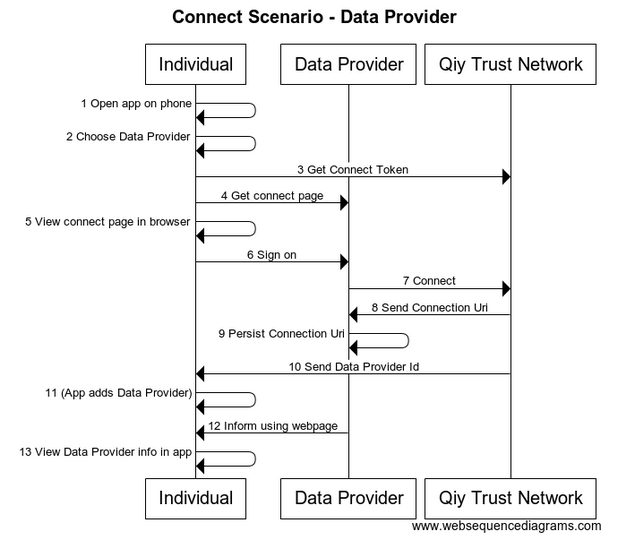
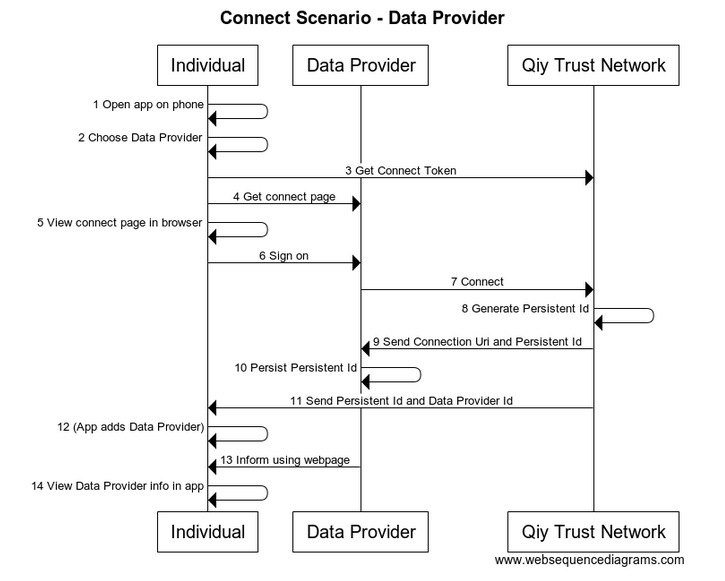
Introduced Persistent Id (#15)

Changed region(s): [[0.0304, 0.0, 0.9744, 1.0]]

diff --git a/Functional Specification.md b/Functional Specification.md
@@ -211,12 +211,13 @@ This chapter describes the flow for the [Individual](Definitions.ms#individual) 
 5. The [Individual](Definitions.md#individual) views the connect page asking him to sign on.
 6. The [Individual](Definitions.md#individual) has an account with the [Data Provider](Definitions.md#data-provider) and succesfully signs on.
 7. The [Data Provider](Definitions.md#data-provider) asks the [Qiy Trust Network](Definitions.md#qiy-trust-network) to create a Connection|Definitions.md#] with the [Connect Token](Definitions.md#connect-token).
-8. The [Qiy Trust Network](Definitions.md#qiy-trust-network) creates the [Connection](Definitions.md#connection) and sends the [Connection Uri](Definitions.md#connection-uri) to the [Data Provider](Definitions.md#data-provider).
-9. The [Data Provider](Definitions.md#data-provider) persists the [Connection Uri](Definitions.md#connection-uri) in the local profile of the [Individual](Definitions.md#individual).
-10. The [Qiy Trust Network](Definitions.md#qiy-trust-network) sends the [Data Provider Id](Definitions.md#data-provider-id) to the [Qiy Application](Definitions.md#qiy-application) of the [Individual](Definitions.md#individual).
-11. The [Qiy Application](Definitions.md#qiy-application) adds the [Data Provider](Definitions.md#data-provider) to the list of connected [Data Providers](Definitions.md#data-provider).
-12. The [Data Provider](Definitions.md#data-provider) uses the webpage to inform the [Individual](Definitions.md#individual) that they are connected via Qiy and that he can control his [Personal Data](Definitions.md#personal-data) via Qiy and redirects him back to the [Qiy Application](Definitions.md#qiy-application).
-13. The [Individual](Definitions.md#individual) can view details of the newly added [Data Provider](Definitions.md#data-provider) in the app.
+8. The [Qiy Trust Network](Definitions.md#qiy-trust-network) creates the [Connection](Definitions.md#connection) and generates a [Persistent Id](Definitions.md#persistent-id) for the [Connection](Definitions.md#connection).
+9. The [Qiy Trust Network](Definitions.md#qiy-trust-network) sends the [Connection Uri](Definitions.md#connection-uri) and the [Persistent Id](Definitions.md#persistent-id) to the [Data Provider](Definitions.md#data-provider).
+10. The [Data Provider](Definitions.md#data-provider) persists the [Persistent Id](Definitions.md#persistent-id) in the local profile of the [Individual](Definitions.md#individual).
+11. The [Qiy Trust Network](Definitions.md#qiy-trust-network) sends the [Persistent Id](Definitions.md#persistent-id) and the [Data Provider Id](Definitions.md#data-provider-id) to the [Individual](Definitions.md#individual) which is captured by his [Qiy Application](Definitions.md#qiy-application).
+12. The [Qiy Application](Definitions.md#qiy-application) adds the [Data Provider](Definitions.md#data-provider) to the list of connected [Data Providers](Definitions.md#data-provider).
+13. The [Data Provider](Definitions.md#data-provider) uses the webpage to inform the [Individual](Definitions.md#individual) that they are connected via Qiy and that he can control his [Personal Data](Definitions.md#personal-data) via Qiy and redirects him back to the [Qiy Application](Definitions.md#qiy-application).
+14. The [Individual](Definitions.md#individual) can view details of the newly added [Data Provider](Definitions.md#data-provider) in the app.
 
 
 # 7 Connect with Relying Party
@@ -226,18 +227,20 @@ This chapter describes the flow for the [Individual](Definitions.ms#individual) 
 ![Connect Scenario - Relying Party](./images/Connect_Scenario_-_Relying_Party_-_Functional_Specification.png)
 
 1. The [Individual](Definitions.md#individual) gets his laptop and opens a webbrowser.
-1. The [Individual](Definitions.md#individual) visits the website of the [Relying Party](Definitions.md#relying-party). It presents an option to sign on using Qiy.
-1. The [Individual](Definitions.md#individual) chooses to use this option.
-1. The [Relying Party](Definitions.md#relying-party) retreives a [Connect Token](Definitions.md#connect-token) from the [Qiy Trust Network](Definitions.md#qiy-trust-network).
-1. The [Relying Party](Definitions.md#relying-party) uses it to generate a [QR Code](Definitions.md#qr-code) in a sign on page.
-1. The [Relying Party](Definitions.md#relying-party) sends the sig on page to the [Individual](Definitions.md#individual).
-1. The [Individual](Definitions.md#individual) picks up his smartphone, opens the previously installed [Qiy Application](Definitions.md#qiy-application) and scans the [QR Code](Definitions.md#qr-code).
-1. The [Qiy Application](Definitions.md#qiy-application) extracts the [Connect Token](Definitions.md#connect-token) and uses it to request the [Qiy Trust Network](Definitions.md#qiy-trust-network) to create a [Connection](Definitions.md#connection). 
-1. The [Qiy Trust Network](Definitions.md#qiy-trust-network) creates the [Connection](Definitions.md#connection) and sends the [Connection Uri](Definitions.md#connection-uri) and the [Relying Party Id](Definitions.md#relying-party-id) to the [Qiy Application](Definitions.md#qiy-application) of the [Individual](Definitions.md#individual).
-1. The [Qiy Application](Definitions.md#qiy-application) asks the [Individual](Definitions.md#individual) to confirm the connection and to return to the website and the [Individual](Definitions.md#individual) complies.
-1. The [Qiy Trust Network](Definitions.md#qiy-trust-network) sends the [Connection Uri](Definitions.md#connection-uri) to the [Relying Party](Definitions.md#relying-party).
-1. The [Relying Party](Definitions.md#relying-party) creates a local account for the [Individual](Definitions.md#individual).
-1. The [Relying Party](Definitions.md#relying-party) looks up the related sign on page and replaces it with a welcome page, informing the [Individual](Definitions.md#individual) that he has a new anonymous account and that he is signed on.
+2. The [Individual](Definitions.md#individual) visits the website of the [Relying Party](Definitions.md#relying-party). It presents an option to sign on using Qiy.
+3. The [Individual](Definitions.md#individual) chooses to use this option.
+4. The [Relying Party](Definitions.md#relying-party) retreives a [Connect Token](Definitions.md#connect-token) from the [Qiy Trust Network](Definitions.md#qiy-trust-network).
+5. The [Relying Party](Definitions.md#relying-party) uses it to generate a [QR Code](Definitions.md#qr-code) in a sign on page.
+6. The [Relying Party](Definitions.md#relying-party) sends the sig on page to the [Individual](Definitions.md#individual).
+7. The [Individual](Definitions.md#individual) picks up his smartphone, opens the previously installed [Qiy Application](Definitions.md#qiy-application) and scans the [QR Code](Definitions.md#qr-code).
+8. The [Qiy Application](Definitions.md#qiy-application) extracts the [Connect Token](Definitions.md#connect-token) and uses it to request the [Qiy Trust Network](Definitions.md#qiy-trust-network) to create a [Connection](Definitions.md#connection). 
+9. The [Qiy Trust Network](Definitions.md#qiy-trust-network) creates the [Connection](Definitions.md#connection) and generates a [Persistent Id](Definitions.md#persistent-id) for the [Connection](Definitions.md#connection).
+10. The [Qiy Trust Network](Definitions.md#qiy-trust-network) sends the [Persistent Id](Definitions.md#persistent-id) and the [Relying Party Id](Definitions.md#relying-party-id) to the [Qiy Application](Definitions.md#qiy-application) of the [Individual](Definitions.md#individual).
+11. The [Qiy Application](Definitions.md#qiy-application) asks the [Individual](Definitions.md#individual) to confirm the connection and to return to the website and the [Individual](Definitions.md#individual) complies.
+12. The [Qiy Trust Network](Definitions.md#qiy-trust-network) sends the [Persistent Id](Definitions.md#persistent-id) to the [Relying Party](Definitions.md#relying-party).
+13. The [Relying Party](Definitions.md#relying-party) creates a local account for the [Individual](Definitions.md#individual).
+13. The [Relying Party](Definitions.md#relying-party) persists the [Persistent Id](Definitions.md#persistent-id) in the local profile of the [Individual](Definitions.md#individual).
+14. The [Relying Party](Definitions.md#relying-party) looks up the related sign on page and replaces it with a welcome page, informing the [Individual](Definitions.md#individual) that he has a new anonymous account and that he is signed on via Qiy.
 
 
 # 8 Data Reuse
@@ -421,12 +424,13 @@ User -> DP	 	: 4 Get connect page
 User -> User	: 5 View connect page in browser
 User -> DP	 	: 6 Sign on
 DP -> QTN       : 7 Connect
-QTN -> DP       : 8 Send Connection Uri
-DP-> DP         : 9 Persist Connection Uri
-QTN -> User     : 10 Send Data Provider Id
-User -> User	: 11 (App adds Data Provider)
-DP   -> User    : 12 Inform using webpage
-User -> User	: 13 View Data Provider info in app
+QTN -> QTN      : 8 Generate Persistent Id
+QTN -> DP       : 9 Send Connection Uri and Persistent Id
+DP-> DP         : 10 Persist Persistent Id
+QTN -> User     : 11 Send Persistent Id and Data Provider Id
+User -> User	: 12 (App adds Data Provider)
+DP   -> User    : 13 Inform using webpage
+User -> User	: 14 View Data Provider info in app
 ```
 
 
@@ -449,11 +453,13 @@ RP -> RP        : 5 Generate QR Code
 RP -> User      : 6 Send sign on page
 User -> User    : 7 Scan QR Code using Qiy app on phone
 User -> QTN     : 8 Connect
-QTN -> User     : 9 Send Connection Uri and Relying Party Id
-User -> User    : 10 Confirm connection and return to laptop
-QTN -> RP       : 11 Send Connection Uri
-RP -> RP        : 12 Create account
-RP -> User      : 13 Welcome via web
+QTN -> QTN      : 9 Create Persistent Id
+QTN -> User     : 10 Send Persistent Id and Relying Party Id
+User -> User    : 11 Confirm connection and return to laptop
+QTN -> RP       : 12 Send Persistent Id
+RP -> RP        : 13 Create account
+RP -> RP        : 14 Persist Id
+RP -> User      : 15 Welcome via web
 ```
 
 

diff --git a/Definitions.md b/Definitions.md
@@ -162,6 +162,9 @@ A [Business Object](#business-object) used by the [Service by Reference](#servic
 ### Operation Specification
 A specification of a [HTTP Request](#http-request) for the execution of an [Operation](#operation).
 
+### Persistent Id
+An [Identifier](#identifier) which can be used to identify a [Connection](#connection) and which has the same value for both related [Qiy Users](#qiy-user).
+
 ### Personal Data
 [Data](#data) relating to an [Individual](#individual). This can be the name, address, telephone number, age, health [Data](#data), account balance, but also personal preferences, etcetera. [Data](#data) are stored at [Data Providers](#data-provider) servers or at the site of the [Individual](#individual) (e.g. in a [Data](#data) vault) and can be shared with [Relying Parties](#relying-party) by [Individuals](#individual).
 
